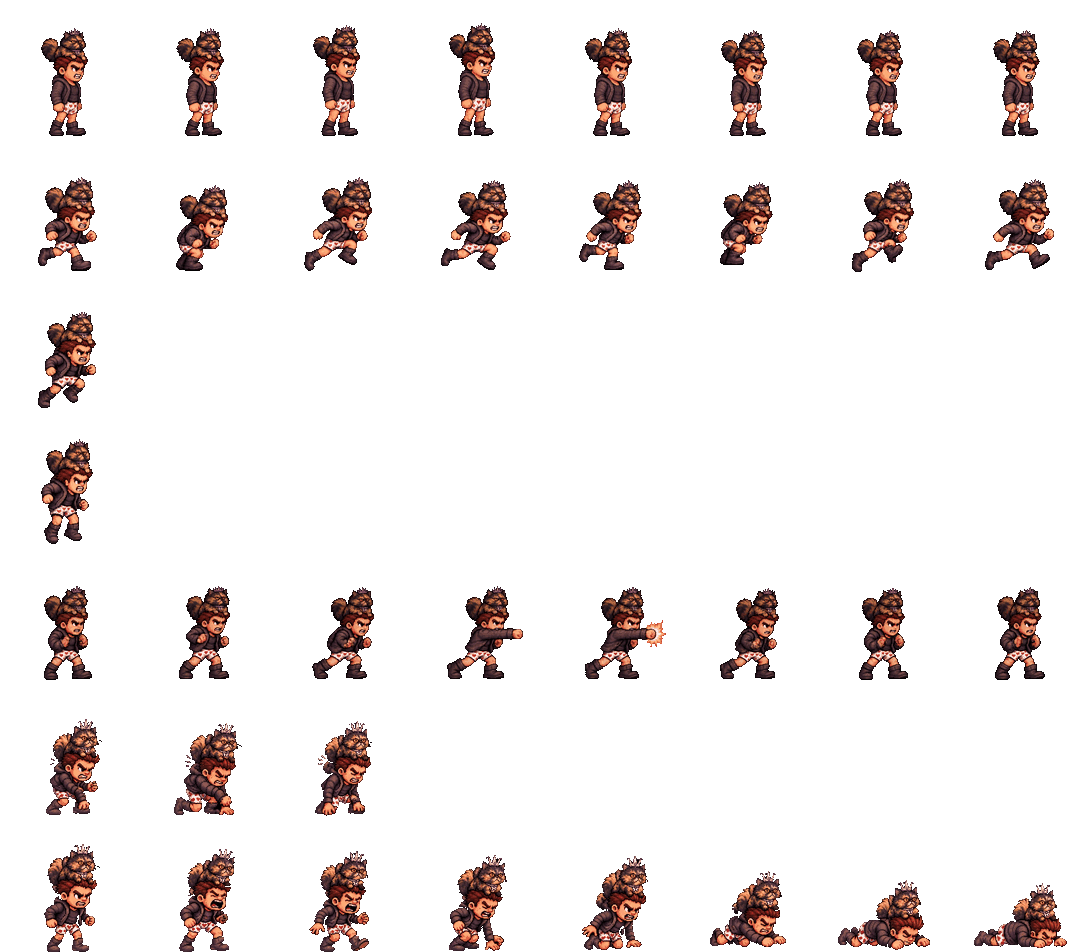
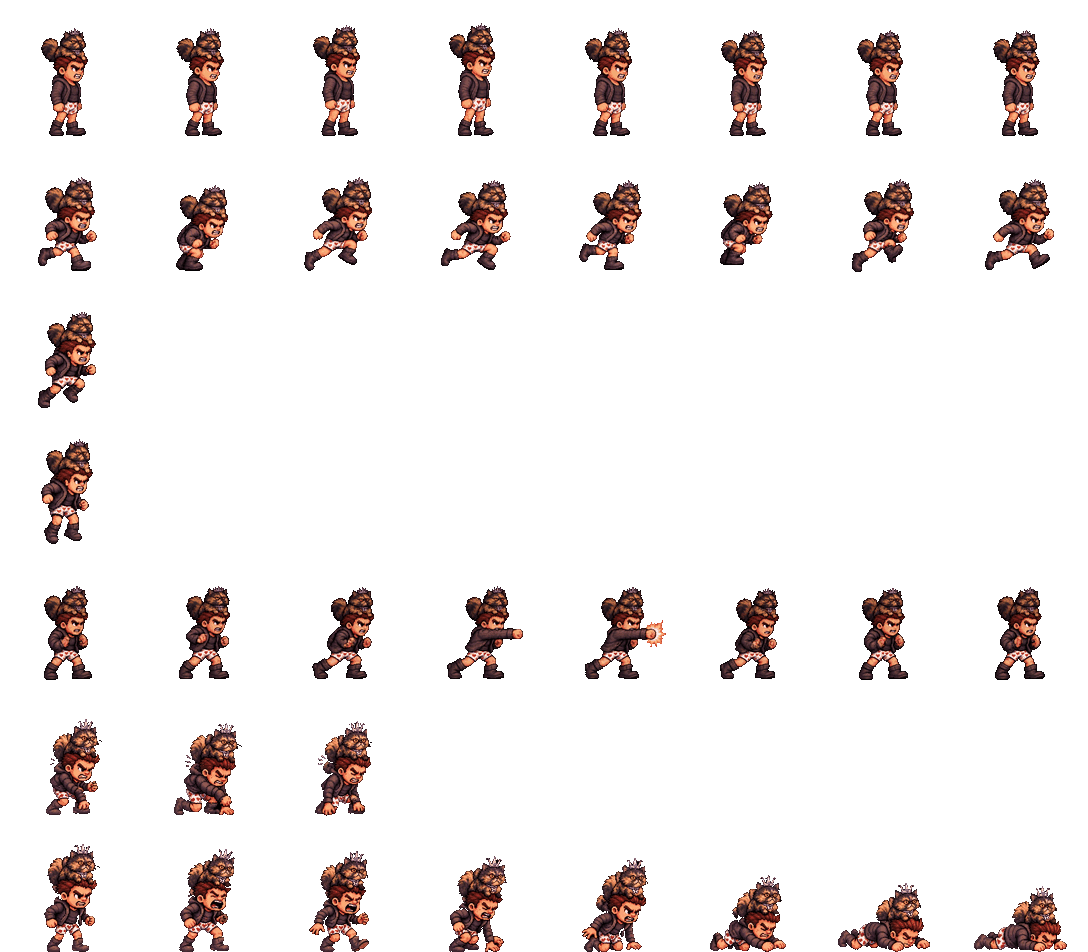
Ground every death frame
Death frames now align their own lowest pixel to the floor, so the kneeling
and lying frames no longer hover 1-5 texels above it.

diff --git a/art-src/characters/import_row.py b/art-src/characters/import_row.py
@@ -15,7 +15,7 @@ ROWS = {
     "run": {"row": 1, "ref": "run_ref.webp", "scale": 0.205, "anchor": "box"},
     "punch": {"row": 4, "ref": "punch_ref.webp", "scale": 0.18, "anchor": "feet", "split": "components"},
     "hurt": {"row": 5, "ref": "damage_ref.webp", "scale": 0.26, "anchor": "feet", "key": "black", "band": (725, 985, 625, 1536), "gap": 1, "min_w": 60, "pick": [1, 2, 3]},
-    "die": {"row": 6, "ref": "damage_ref.webp", "scale": 0.26, "anchor": "feet", "key": "black", "band": (400, 665, 0, 1536), "split": "components"},
+    "die": {"row": 6, "ref": "damage_ref.webp", "scale": 0.26, "anchor": "feet", "key": "black", "band": (400, 665, 0, 1536), "split": "components", "own_bottom": True},
     "jump": {"row": 2, "ref": "jump_ref.webp", "scale": 0.205, "anchor": "box", "pick": [1], "own_bottom": True},
     "fall": {"row": 3, "ref": "jump_ref.webp", "scale": 0.205, "anchor": "box", "pick": [4], "own_bottom": True},
 }
